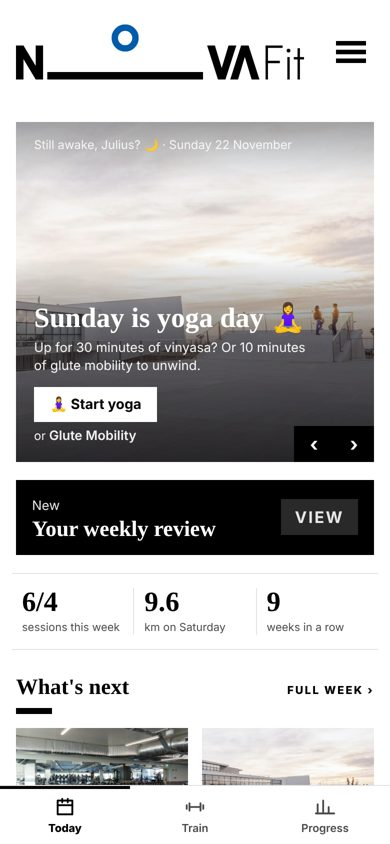
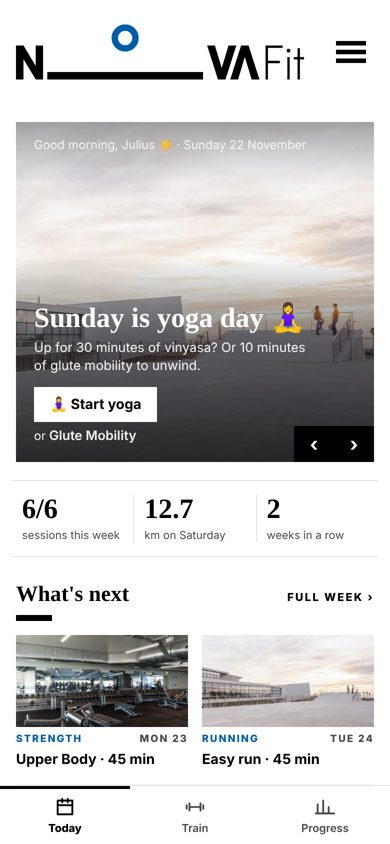
README: new screenshots with captions, features and history up to 22 Nov
Claude-Session: https://claude.ai/code/session_013zSacbMhBsJ1UJEmmwaeWB

diff --git a/README.md b/README.md
@@ -7,7 +7,13 @@ Group project for *Introduction to Programming* at Nova SBE, 2026/27.
 
 | Today | Train | Workout | Progress |
 |---|---|---|---|
-| ![Today](docs/img/today.jpg) | ![Train](docs/img/train.jpg) | ![Workout](docs/img/workout.jpg) | ![Progress](docs/img/progress.jpg) |
+| <img src="docs/img/today.jpg" alt="Today: the next session, the week ahead and Nova news" width="200"> | <img src="docs/img/train.jpg" alt="Train: the week line and one card per sport" width="200"> | <img src="docs/img/workout.jpg" alt="Workout: last time's sets, a suggestion to add weight, + Add set" width="200"> | <img src="docs/img/progress.jpg" alt="Progress: reviews, then cards per sport" width="200"> |
+| What's next today, the week ahead and Nova news | Your week and one card per sport | Last time's sets, more weight when you're ready, + Add set | Weekly and monthly reviews, then your numbers per sport |
+
+| Weekly story | Guided tour | Four languages |
+|---|---|---|
+| <img src="docs/img/story.jpg" alt="Weekly review as a story with your own photos" width="200"> | <img src="docs/img/tour.jpg" alt="Guided tour after sign-up" width="200"> | <img src="docs/img/languages.jpg" alt="Today in Portuguese" width="200"> |
+| Every Sunday your week as a short story, shareable as an image | After sign-up a tour walks through every page | English, Portuguese, German and Italian (here Portuguese) |
 
 ## Team
 
@@ -32,7 +38,7 @@ Group project for *Introduction to Programming* at Nova SBE, 2026/27.
 ## Features
 
 **Getting started**
-- Account (name, Nova email, password) and a questionnaire: body data, days per week, mix of gym, running and yoga, goals, level, strength split
+- Account (name, Nova email, password) and a questionnaire: body data, days per week, mix of gym, running and yoga, goals, level, strength split. Later changes to the plan start at the training days; sex, age, weight and height stay under *Settings › Profile and body*
 - Three suggested week plans; the chosen one sets the weekly goal
 - A guided tour right after sign-up that walks through every page (you tap, it explains; optional example data that is removed afterwards). Restart it under *Menu › Guided tour*.
 
@@ -44,7 +50,7 @@ Group project for *Introduction to Programming* at Nova SBE, 2026/27.
 
 **Train**
 - A week line in the colour of each sport and today's session on top
-- *Gym:* plan days, own templates, ready-made workouts, 124 exercises with drawings; sets filled in from last time, a suggestion when to add weight, rest timer, guided warm-up, swap or add exercises, records
+- *Gym:* plan days, own templates (you choose how many sets each exercise gets), ready-made workouts, 124 exercises with drawings; sets filled in from last time, a suggestion when to add weight, + Add set under every exercise, rest timer, guided warm-up, swap or add exercises, records; ⋯ shows today's whole workout and changes the order
 - *Running:* outdoor or treadmill; read a run from a watch screenshot, import GPX, FIT and TCX files or the whole history from Garmin and Strava; a direct Strava connection is built and tested, but not switched on in our live version, because the Strava API needs a Strava subscription that none of us has (see [docs/setup.md](docs/setup.md#strava-connection)); runs near you (hand-picked routes and a loop from where you are, from the running menu); interval timer; goal plans for 10 km, a half marathon or your own loop
 - *Yoga:* 7 guided sessions read aloud, 5-minute study breaks, a tension check before and after, a flexibility check every two weeks
 - *Edit what's on Train:* switch sports on or off; everything else follows
@@ -54,7 +60,7 @@ Group project for *Introduction to Programming* at Nova SBE, 2026/27.
 - Weekly, monthly and yearly reviews as stories with your own photos, shareable as an image
 - Calendar and full history, 27 badges including special Nova badges
 
-**Make it yours:** own photos, dark mode, push reminders, app lock.
+**Make it yours:** own photos, dark mode, app lock, training days in your phone calendar, and push notifications (allowed with one tap, also in the installed iPhone app; messages come in the phone's language).
 
 **Four languages:** English, Portuguese, German and Italian. The app starts in the language of the phone; switch with *EN ▾* on the welcome screen or under *Menu › Look and feel › Language*. Exercise names stay in English, like in the gym. Screenshots from running apps are read in English, German, Portuguese, Spanish, French and Italian.
 
@@ -89,7 +95,7 @@ npx playwright install chromium
 npm run e2e                 # browser tests that drive the real app
 ```
 
-The unit tests cover sign-up and questionnaire validation, plan suggestions, the exercise library, running files and screenshots, imports, yoga, Progress cards, badges and the tour's example data. The browser tests sign up, log strength sessions, runs and yoga, import files, restore backups and walk through the whole guided tour. GitHub runs both on every push and pull request (`.github/workflows/test.yml`).
+The unit tests cover sign-up and questionnaire validation, plan suggestions, the exercise library, running files and screenshots (in six languages), imports, yoga, Progress cards, badges, the tour's example data and the translation table. The browser tests sign up, log strength sessions, runs and yoga, import files, restore backups, switch languages, turn on notifications and walk through the whole guided tour. GitHub runs both on every push and pull request (`.github/workflows/test.yml`).
 
 ## How it's built
 
@@ -100,6 +106,7 @@ Plain HTML, CSS and JavaScript, no build step. The app is a Progressive Web App:
 | `app/index.html`, `app/app.js` | The page with its design, and the app itself (screens, sessions, storage) |
 | `app/plan.js`, `exercises.js`, `run.js`, `yoga.js`, `muscles.js`, `progress.js`, `tour.js` | The logic as pure, tested functions: plans, exercise library, running, yoga, muscles, Progress and badges, tour data |
 | `app/guide.js` | The guided tour |
+| `app/i18n.js`, `app/i18n-data.js` | The four languages: the translation layer and the table of texts |
 | `netlify/functions/` | Strava, the running loop and the news (server side) |
 | `tests/`, `e2e/` | Unit tests and browser tests |
 | `docs/` | Setup, architecture and security notes |
@@ -132,7 +139,7 @@ Every change went through its own branch and pull request into `main`, with a sh
 
 - **Julius Veith:** the first version of the app and the Nova redesign (v1.0, v2.0), the English app with sign-up, questionnaire and personal plans, goals and body data, the exercise library with 124 drawings, strength splits and mobility add-ons
 - **Tassilo Mylius:** running: screenshots, GPX/FIT/TCX files, the Strava connection, importing a training history from Garmin and Strava, runs near you; yoga goals and the flexibility check; security headers and protected functions; the browser tests
-- **Dominic Quadflieg:** the Nova design system, header, photo pack and icon; calories; build-your-own plans; the workout page; weather; yoga sessions with voice and the tension check; the Today · Train · Progress layout, Nova news, sport pages, reviews by sport, Progress cards, badges and the guided tour
+- **Dominic Quadflieg:** the Nova design system, header, photo pack and icon; calories; build-your-own plans; the workout page; weather; yoga sessions with voice and the tension check; the Today · Train · Progress layout, Nova news, sport pages, reviews by sport, Progress cards, badges and the guided tour; the rotating Today messages and backups; the compact menu and profile photo; installing first on an iPhone; edge cases (full storage, empty Progress, dark mode, screenshots in more languages); the four languages; push notifications; sets in own templates, the workout overview and Profile and body
 
 **Use of AI.** We used AI coding assistants throughout, mainly Claude (Anthropic) through Claude Code, as encouraged in the course. We decided what to build, described features and designs, reviewed the results on real phones, asked for changes and merged each pull request ourselves. Commits written by the assistant are marked with the author “Claude” or a `Co-Authored-By: Claude` line, so the history shows which code was generated. The tests were part of every change, so generated code had to pass the same checks as our own.
 
@@ -148,6 +155,9 @@ Every change went through its own branch and pull request into `main`, with a sh
 | | 17–18 Nov | Yoga, weather, workout page, Today · Train · Progress layout ([#19](https://github.com/juveith/Group-Project---Intro-to-Programming/pull/19)–[#30](https://github.com/juveith/Group-Project---Intro-to-Programming/pull/30)) |
 | v2.11–v2.14 | 19 Nov | Runs near you, yoga goals, security, browser tests ([#32](https://github.com/juveith/Group-Project---Intro-to-Programming/pull/32)–[#36](https://github.com/juveith/Group-Project---Intro-to-Programming/pull/36)) |
 | | 21 Nov | Nova news, new Train with sport pages, reviews by sport, Progress per sport, badges, guided tour ([#37](https://github.com/juveith/Group-Project---Intro-to-Programming/pull/37)–[#52](https://github.com/juveith/Group-Project---Intro-to-Programming/pull/52)) |
+| | 22 Nov | README and docs, rotating Today messages, backups, compact menu, iPhone install, edge cases ([#53](https://github.com/juveith/Group-Project---Intro-to-Programming/pull/53)–[#57](https://github.com/juveith/Group-Project---Intro-to-Programming/pull/57)) |
+| | 22 Nov | Four languages, push notifications in the app language, sign out, library and running fixes ([#58](https://github.com/juveith/Group-Project---Intro-to-Programming/pull/58)–[#65](https://github.com/juveith/Group-Project---Intro-to-Programming/pull/65)) |
+| | 22 Nov | Polar Flow import, external services in the README, Runs near you and running plan in the new design, sets in own templates, workout overview, Profile and body ([#66](https://github.com/juveith/Group-Project---Intro-to-Programming/pull/66)–[#70](https://github.com/juveith/Group-Project---Intro-to-Programming/pull/70)) |
 
 Every change in detail: [CHANGELOG.md](CHANGELOG.md).
 
